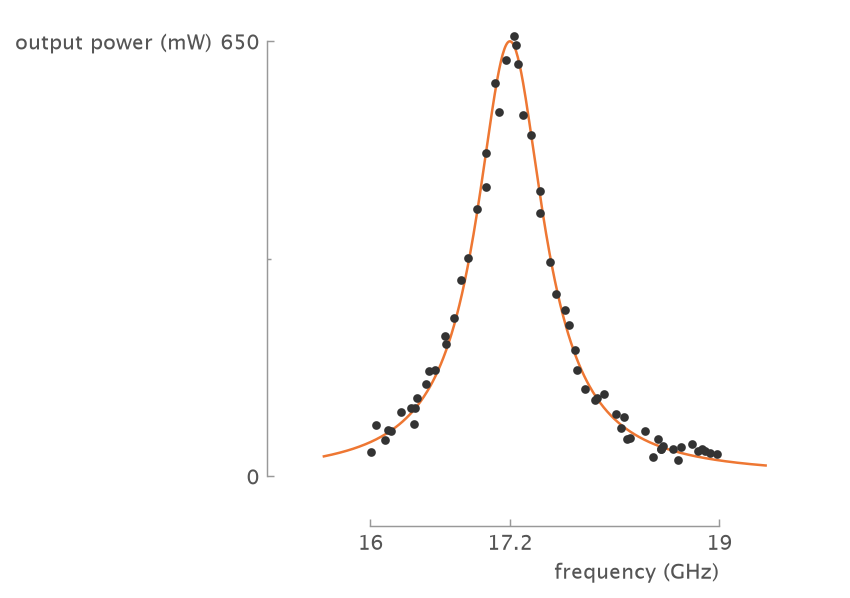
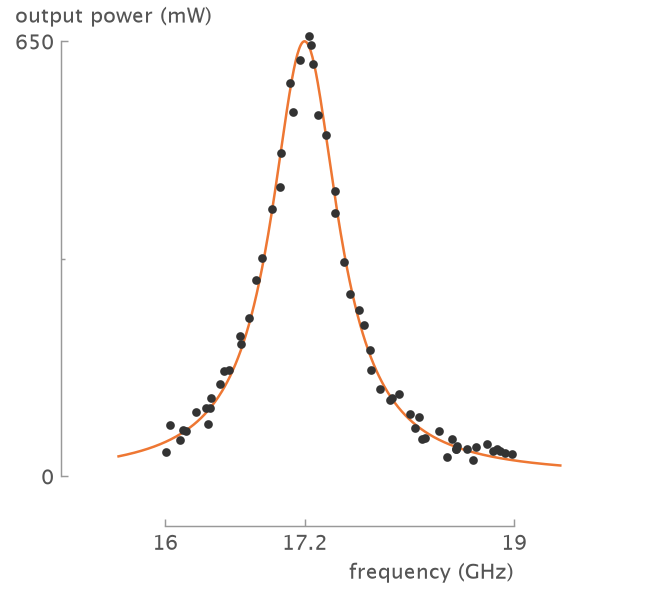
feat(labels): stack the y-label above the top tick with place="above"
Rename ylabel's flush bool to place ('beside' | 'above'). 'beside' (the
default) keeps the level-with-the-top-tick placement of the old
flush=True; 'above' stacks the horizontal label over the top tick
label, its left edge aligned with the tick label's left edge — the
Doumont 'better graph' y-label. It anchors on the top tick label's
measured extent via set_label_coords, so the draw-hook placement (which
runs after matplotlib's own) converges instead of oscillating. restore
resets the disabled auto-placement. The resonance figure adopts it.

Claude-Session: https://claude.ai/code/session_01CDqPgu8AcjrT7siKYivTWR

diff --git a/src/vanzelfsprekend/labels.py b/src/vanzelfsprekend/labels.py
@@ -40,11 +40,13 @@ def xlabel(ax: Axes, text: str, labelpad: float | None = None) -> Text:
 
 
 def ylabel(
-    ax: Axes, text: str, flush: bool = True, labelpad: float | None = None
+    ax: Axes, text: str, place: str = "beside", labelpad: float | None = None
 ) -> Text:
     """Set a horizontal y-label at the top of the left spine.
 
-    Call after `range_frame`.
+    Call after `range_frame`. The two placements are Doumont's two
+    recommended y-labels (*Trees, maps and theorems*): `'beside'` is his
+    "good graph", `'above'` his "better graph".
 
     Parameters
     ----------
@@ -52,24 +54,40 @@ def ylabel(
         A range-framed axes.
     text : str
         The label text.
-    flush : bool
-        If True (the default), anchor the label at the topmost tick with
-        `va='center_baseline'`, so it sits flush with the top tick label.
-        If False, place it above the spine's top end.
+    place : {'beside', 'above'}
+        Where the horizontal label sits relative to the top tick.
+        `'beside'` (the default) anchors it level with the top tick label
+        (`va='center_baseline'`), to its left. `'above'` stacks it above
+        the top tick label, its left edge aligned with the top tick
+        label's left edge.
     labelpad : float, optional
         Gap in points between the label and the tick-label column, whose
         edge is set by the *widest* tick label. `None` keeps matplotlib's
-        default (rcParam `axes.labelpad`, 4.0).
+        default (rcParam `axes.labelpad`, 4.0). Ignored when
+        `place='above'`, which anchors on the top tick label directly.
 
     Returns
     -------
     matplotlib.text.Text
         The label artist.
+
+    Raises
+    ------
+    ValueError
+        If `place` is not `'beside'` or `'above'`.
     """
-    _labels_state(ax)["ylabel_flush"] = flush
+    if place not in ("beside", "above"):
+        raise ValueError(f"place must be 'beside' or 'above', got {place!r}")
+    _labels_state(ax)["ylabel_place"] = place
+    if place == "beside":
+        # Undo a prior 'above', whose set_label_coords disabled matplotlib's
+        # own perpendicular placement.
+        ax.yaxis.set_label_position("left")
+        ax.yaxis._autolabelpos = True  # ty: ignore[unresolved-attribute]
     ax.set_ylabel(text, rotation=0, labelpad=labelpad)
-    ax.yaxis.label.set_verticalalignment("center_baseline" if flush else "bottom")
-    ax.yaxis.label.set_horizontalalignment("right")
+    beside = place == "beside"
+    ax.yaxis.label.set_verticalalignment("center_baseline" if beside else "bottom")
+    ax.yaxis.label.set_horizontalalignment("right" if beside else "left")
     add_applier(ax, "labels", _apply_labels)
     run_appliers(ax)
     return ax.yaxis.label
@@ -80,10 +98,13 @@ def _labels_state(ax: Axes) -> dict:
     ls = state.get("labels")
     if ls is None:
         ls = {
-            "ylabel_flush": False,
+            "ylabel_place": "beside",
             "snapshot": {
                 "x": _label_props(ax.xaxis.label),
                 "y": _label_props(ax.yaxis.label),
+                "y_autolabelpos": ax.yaxis._autolabelpos,  # ty: ignore[unresolved-attribute]
+                "y_label_transform": ax.yaxis.label.get_transform(),
+                "y_label_position_side": ax.yaxis.get_label_position(),
             },
         }
         state["labels"] = ls
@@ -118,23 +139,57 @@ def _apply_labels(ax: Axes) -> bool:
                 ax.xaxis.label.set_position((frac, pos[1]))
                 changed = True
     if "y" in active and ax.get_ylabel():
-        span = _frame_span(ax.yaxis, mode)
-        if span is not None:
-            anchor = span[1]
-            offset_px = 0.0
-            if ls.get("ylabel_flush"):
+        if ls.get("ylabel_place", "beside") == "above":
+            changed = _place_ylabel_above(ax) or changed
+        else:
+            span = _frame_span(ax.yaxis, mode)
+            if span is not None:
                 locs = ax.yaxis.get_majorticklocs()
                 if len(locs):
                     anchor = max(locs)
                     offset_px = _top_label_offset(ax, int(np.argmax(locs)))
-            vmin, vmax = ax.get_ylim()
-            frac = _axes_fraction(ax.yaxis, anchor, vmin, vmax)
-            frac += offset_px / ax.bbox.height
-            pos = ax.yaxis.label.get_position()
-            if pos[1] != frac:
-                ax.yaxis.label.set_position((pos[0], frac))
-                changed = True
+                else:
+                    anchor, offset_px = span[1], 0.0
+                vmin, vmax = ax.get_ylim()
+                frac = _axes_fraction(ax.yaxis, anchor, vmin, vmax)
+                frac += offset_px / ax.bbox.height
+                pos = ax.yaxis.label.get_position()
+                if pos[1] != frac:
+                    ax.yaxis.label.set_position((pos[0], frac))
+                    changed = True
     return changed
+
+
+def _place_ylabel_above(ax: Axes) -> bool:
+    """Stack the y-label above the top tick label, left edges aligned.
+
+    Anchored on the topmost tick label's measured left/top edge, so it
+    tracks the tick label's rendered width. Uses `set_label_coords` (which
+    disables matplotlib's own perpendicular placement), because the draw
+    hook runs after that placement — a plain `set_position` on the label's
+    x would be overwritten every draw and never converge.
+    """
+    locs = ax.yaxis.get_majorticklocs()
+    labels = ax.yaxis.get_ticklabels()
+    if not len(locs) or not labels:
+        return False
+    top = int(np.argmax(locs))
+    if top >= len(labels):
+        return False
+    try:
+        bbox = labels[top].get_window_extent()
+    except RuntimeError:
+        return False
+    left, upper = ax.transAxes.inverted().transform((bbox.x0, bbox.y1))
+    gap = 3.0 * ax.figure.dpi / 72.0 / ax.bbox.height
+    target = (float(left), float(upper) + gap)
+    pos = ax.yaxis.label.get_position()
+    autolabelpos = ax.yaxis._autolabelpos  # ty: ignore[unresolved-attribute]
+    moved = abs(pos[0] - target[0]) > 1e-4 or abs(pos[1] - target[1]) > 1e-4
+    if autolabelpos or moved:
+        ax.yaxis.set_label_coords(*target)
+        return True
+    return False
 
 
 def _top_label_offset(ax: Axes, top_index: int) -> float:

diff --git a/tests/test_labels.py b/tests/test_labels.py
@@ -43,28 +43,33 @@ def test_xlabel_right_edge_at_spine_end(labeled_ax):
     assert abs(label.x1 - spine_end_px) < 2
 
 
-def test_ylabel_flush_false_sits_above_spine_top_without_overlap():
+def test_ylabel_above_stacks_over_top_tick_left_aligned():
     fig, ax = plt.subplots()
     rng = np.random.default_rng(0)
     ax.scatter(rng.uniform(0.3, 9.7, 50), rng.uniform(-3.2, 4.1, 50))
     vzs.range_frame(ax)
-    vzs.ylabel(ax, "voltage", flush=False)
+    vzs.ylabel(ax, "voltage", place="above")
     fig.canvas.draw()
-    label = ax.yaxis.label.get_window_extent()
-    ticks = [
-        t.get_window_extent()
-        for t in ax.yaxis.get_ticklabels()
-        if t.get_text() and t.get_visible()
-    ]
+    renderer = fig.canvas.get_renderer()
+    label = ax.yaxis.label.get_window_extent(renderer)
+    ticks = tick_label_bboxes(ax.yaxis, renderer)
     assert ticks
+    top = max(ticks, key=lambda b: b.y1)
     assert all(not label.overlaps(b) for b in ticks)
-    spine_top = ax.spines["left"].get_bounds()[1]
-    spine_top_px = ax.transData.transform((0, spine_top))[1]
-    assert label.y0 >= spine_top_px - 1
+    assert label.y0 >= top.y1 - 1  # sits above the top tick label
+    assert abs(label.x0 - top.x0) < 2  # left edges aligned
     plt.close(fig)
 
 
-def test_ylabel_defaults_to_flush_with_top_tick_label(labeled_ax):
+def test_ylabel_invalid_place_raises():
+    fig, ax = plt.subplots()
+    vzs.range_frame(ax)
+    with pytest.raises(ValueError, match="place"):
+        vzs.ylabel(ax, "voltage", place="over")
+    plt.close(fig)
+
+
+def test_ylabel_defaults_to_beside_with_top_tick_label(labeled_ax):
     renderer = labeled_ax.figure.canvas.get_renderer()
     label = labeled_ax.yaxis.label.get_window_extent(renderer)
     ticks = tick_label_bboxes(labeled_ax.yaxis, renderer)
@@ -84,12 +89,12 @@ def test_labels_follow_after_resize(labeled_ax):
     assert abs(label.x1 - spine_end_px) < 2
 
 
-def test_flush_ylabel_top_aligns_with_top_tick_label():
+def test_beside_ylabel_top_aligns_with_top_tick_label():
     fig, ax = plt.subplots()
     rng = np.random.default_rng(0)
     ax.scatter(rng.uniform(0.3, 9.7, 50), rng.uniform(-3.2, 4.1, 50))
     vzs.range_frame(ax)
-    vzs.ylabel(ax, "voltage", flush=True)
+    vzs.ylabel(ax, "voltage", place="beside")
     fig.canvas.draw()
     renderer = fig.canvas.get_renderer()
     label = ax.yaxis.label.get_window_extent(renderer)
@@ -137,12 +142,12 @@ def test_xlabel_labelpad_shifts_down():
     plt.close(fig_pad)
 
 
-def test_flush_ylabel_with_loose_frame_no_overlap():
+def test_beside_ylabel_with_loose_frame_no_overlap():
     fig, ax = plt.subplots()
     rng = np.random.default_rng(0)
     ax.scatter(rng.uniform(0.3, 9.7, 50), rng.uniform(-3.2, 4.1, 50))
     vzs.range_frame(ax, frame="loose")
-    vzs.ylabel(ax, "voltage", flush=True)
+    vzs.ylabel(ax, "voltage", place="beside")
     fig.canvas.draw()
     renderer = fig.canvas.get_renderer()
     label = ax.yaxis.label.get_window_extent(renderer)
@@ -164,7 +169,7 @@ def test_log_axes_labels_anchor_in_log_space():
     ax.scatter(x, y)
     vzs.range_frame(ax)
     vzs.xlabel(ax, "body mass (g)")
-    vzs.ylabel(ax, "metabolic rate", flush=True)
+    vzs.ylabel(ax, "metabolic rate", place="beside")
     fig.canvas.draw()
 
     xmin, xmax = ax.get_xlim()

diff --git a/examples/gallery.py b/examples/gallery.py
@@ -97,7 +97,7 @@ def grand_tours() -> None:
     # arrives, and apply detects date-ness at call time.
     vzs.apply(ax, frame=("data", "loose"))
     vzs.line_labels(ax)
-    vzs.ylabel(ax, "winner's\naverage speed (km/h)", flush=True)
+    vzs.ylabel(ax, "winner's\naverage speed (km/h)")
     fig.savefig(OUTPUT / "grand_tours.png", dpi=150, bbox_inches="tight")
     plt.close(fig)
 
@@ -111,7 +111,7 @@ def brain_body() -> None:
     vzs.apply(ax, frame="loose")
     ax.scatter(table["body_kg"], table["brain_g"], s=12)
     vzs.xlabel(ax, "body mass (kg)")
-    vzs.ylabel(ax, "brain mass (g)", flush=True)
+    vzs.ylabel(ax, "brain mass (g)")
     fig.savefig(OUTPUT / "brain_body.png", dpi=150, bbox_inches="tight")
     plt.close(fig)
 
@@ -123,7 +123,7 @@ def waiting_times() -> None:
     vzs.apply(ax, frame="data")
     ax.hist(table["waiting"], bins=27)
     vzs.xlabel(ax, "minutes to the next eruption")
-    vzs.ylabel(ax, "eruptions", flush=True, labelpad=10)
+    vzs.ylabel(ax, "eruptions", labelpad=10)
     fig.savefig(OUTPUT / "waiting_times.png", dpi=150, bbox_inches="tight")
     plt.close(fig)
 
@@ -154,7 +154,7 @@ def power_profiles() -> None:
         ax.plot(seconds, power, color=color, linewidth=1.2, label=label)
     vzs.line_labels(ax)
     vzs.xlabel(ax, "duration (s)")
-    vzs.ylabel(ax, "power (W)", flush=True)
+    vzs.ylabel(ax, "power (W)")
     fig.savefig(OUTPUT / "power_profiles.png", dpi=150, bbox_inches="tight")
     plt.close(fig)
 
@@ -199,7 +199,7 @@ def resonance_peak() -> None:
     ax.yaxis.set_major_formatter("{x:.0f}")
     vzs.tick_direction(ax, "in")
     vzs.xlabel(ax, "frequency (GHz)")
-    vzs.ylabel(ax, "output power (mW)", flush=True)
+    vzs.ylabel(ax, "output power (mW)", place="above")
     fig.savefig(OUTPUT / "resonance_peak.png", dpi=150, bbox_inches="tight")
     plt.close(fig)
 

diff --git a/src/vanzelfsprekend/compose.py b/src/vanzelfsprekend/compose.py
@@ -106,12 +106,19 @@ def restore(ax: Axes) -> None:
 
     labels_state = state.get("labels")
     if labels_state is not None:
+        snap = labels_state["snapshot"]
         for axis, key in ((ax.xaxis, "x"), (ax.yaxis, "y")):
-            props = labels_state["snapshot"][key]
+            props = snap[key]
             axis.label.set_horizontalalignment(props["ha"])
             axis.label.set_verticalalignment(props["va"])
             axis.label.set_rotation(props["rotation"])
             axis.label.set_position(props["position"])
+        # Undo an `ylabel(place="above")`, whose set_label_coords disabled
+        # matplotlib's own perpendicular y-label placement and replaced the
+        # label's transform.
+        ax.yaxis.set_label_position(snap.get("y_label_position_side", "left"))
+        ax.yaxis.label.set_transform(snap["y_label_transform"])
+        ax.yaxis._autolabelpos = snap.get("y_autolabelpos", True)  # ty: ignore[unresolved-attribute]
 
     mute_state = state.get("mute")
     if mute_state is not None:
@@ -237,10 +244,10 @@ class _Accessor:
         return xlabel(self._ax, text, labelpad=labelpad)
 
     def set_ylabel(
-        self, text: str, flush: bool = True, labelpad: float | None = None
+        self, text: str, place: str = "beside", labelpad: float | None = None
     ) -> Text:
         """End-of-spine y-label; see `vanzelfsprekend.ylabel`."""
-        return ylabel(self._ax, text, flush=flush, labelpad=labelpad)
+        return ylabel(self._ax, text, place=place, labelpad=labelpad)
 
     def line_labels(
         self,

diff --git a/tests/test_ticklabels.py b/tests/test_ticklabels.py
@@ -240,7 +240,7 @@ def test_restore_reverts_tick_label_transforms():
     plt.close(fig_b)
 
 
-def test_flush_ylabel_follows_displaced_top_label():
+def test_beside_ylabel_follows_displaced_top_label():
     # Four quantiles jam near the top: the max label is pushed well up.
     values = np.array([0.0, 9.4, 9.5, 9.6, 10.0])
     fig, ax = plt.subplots(figsize=(4, 3))
@@ -248,7 +248,7 @@ def test_flush_ylabel_follows_displaced_top_label():
     vzs.apply(ax, frame="data")
     ax.yaxis.set_major_locator(vzs.QuartileLocator(values))
     ax.yaxis.set_major_formatter("{x:.1f}")
-    vzs.ylabel(ax, "value", flush=True)
+    vzs.ylabel(ax, "value")
     fig.canvas.draw()
     fig.canvas.draw()
     labels = ax.yaxis.get_ticklabels()

diff --git a/examples/warming_scenarios.py b/examples/warming_scenarios.py
@@ -74,7 +74,7 @@ def main() -> None:
     draw_data(treated)
     treated.text(1905, 0.8, "observed", color=vzs.palettes.DATA_INK)
     vzs.line_labels(treated)
-    vzs.ylabel(treated, "warming\n(°C vs 1850–1900)", flush=True)  # noqa: RUF001
+    vzs.ylabel(treated, "warming\n(°C vs 1850–1900)")  # noqa: RUF001
     treated.set_title("vanzelfsprekend")
 
     fig.savefig(DOCS / "warming_scenarios.png", dpi=150, bbox_inches="tight")

diff --git a/tests/test_multiples.py b/tests/test_multiples.py
@@ -348,7 +348,7 @@ def test_single_ylabel_lands_once_on_top_left():
     plt.close(fig)
 
 
-def test_grid_ylabel_sits_flush_with_top_tick():
+def test_grid_ylabel_sits_beside_top_tick():
     fig, axes = _grid22()
     vzs.small_multiples(axes.flat, ylabel="rate")
     fig.canvas.draw()

diff --git a/tests/test_compose.py b/tests/test_compose.py
@@ -63,7 +63,7 @@ def test_restore_reverts_to_prior_state():
 
     vzs.range_frame(ax)
     vzs.xlabel(ax, "t")
-    vzs.ylabel(ax, "v", flush=True)
+    vzs.ylabel(ax, "v")
     fig.canvas.draw()
 
     vzs.restore(ax)
